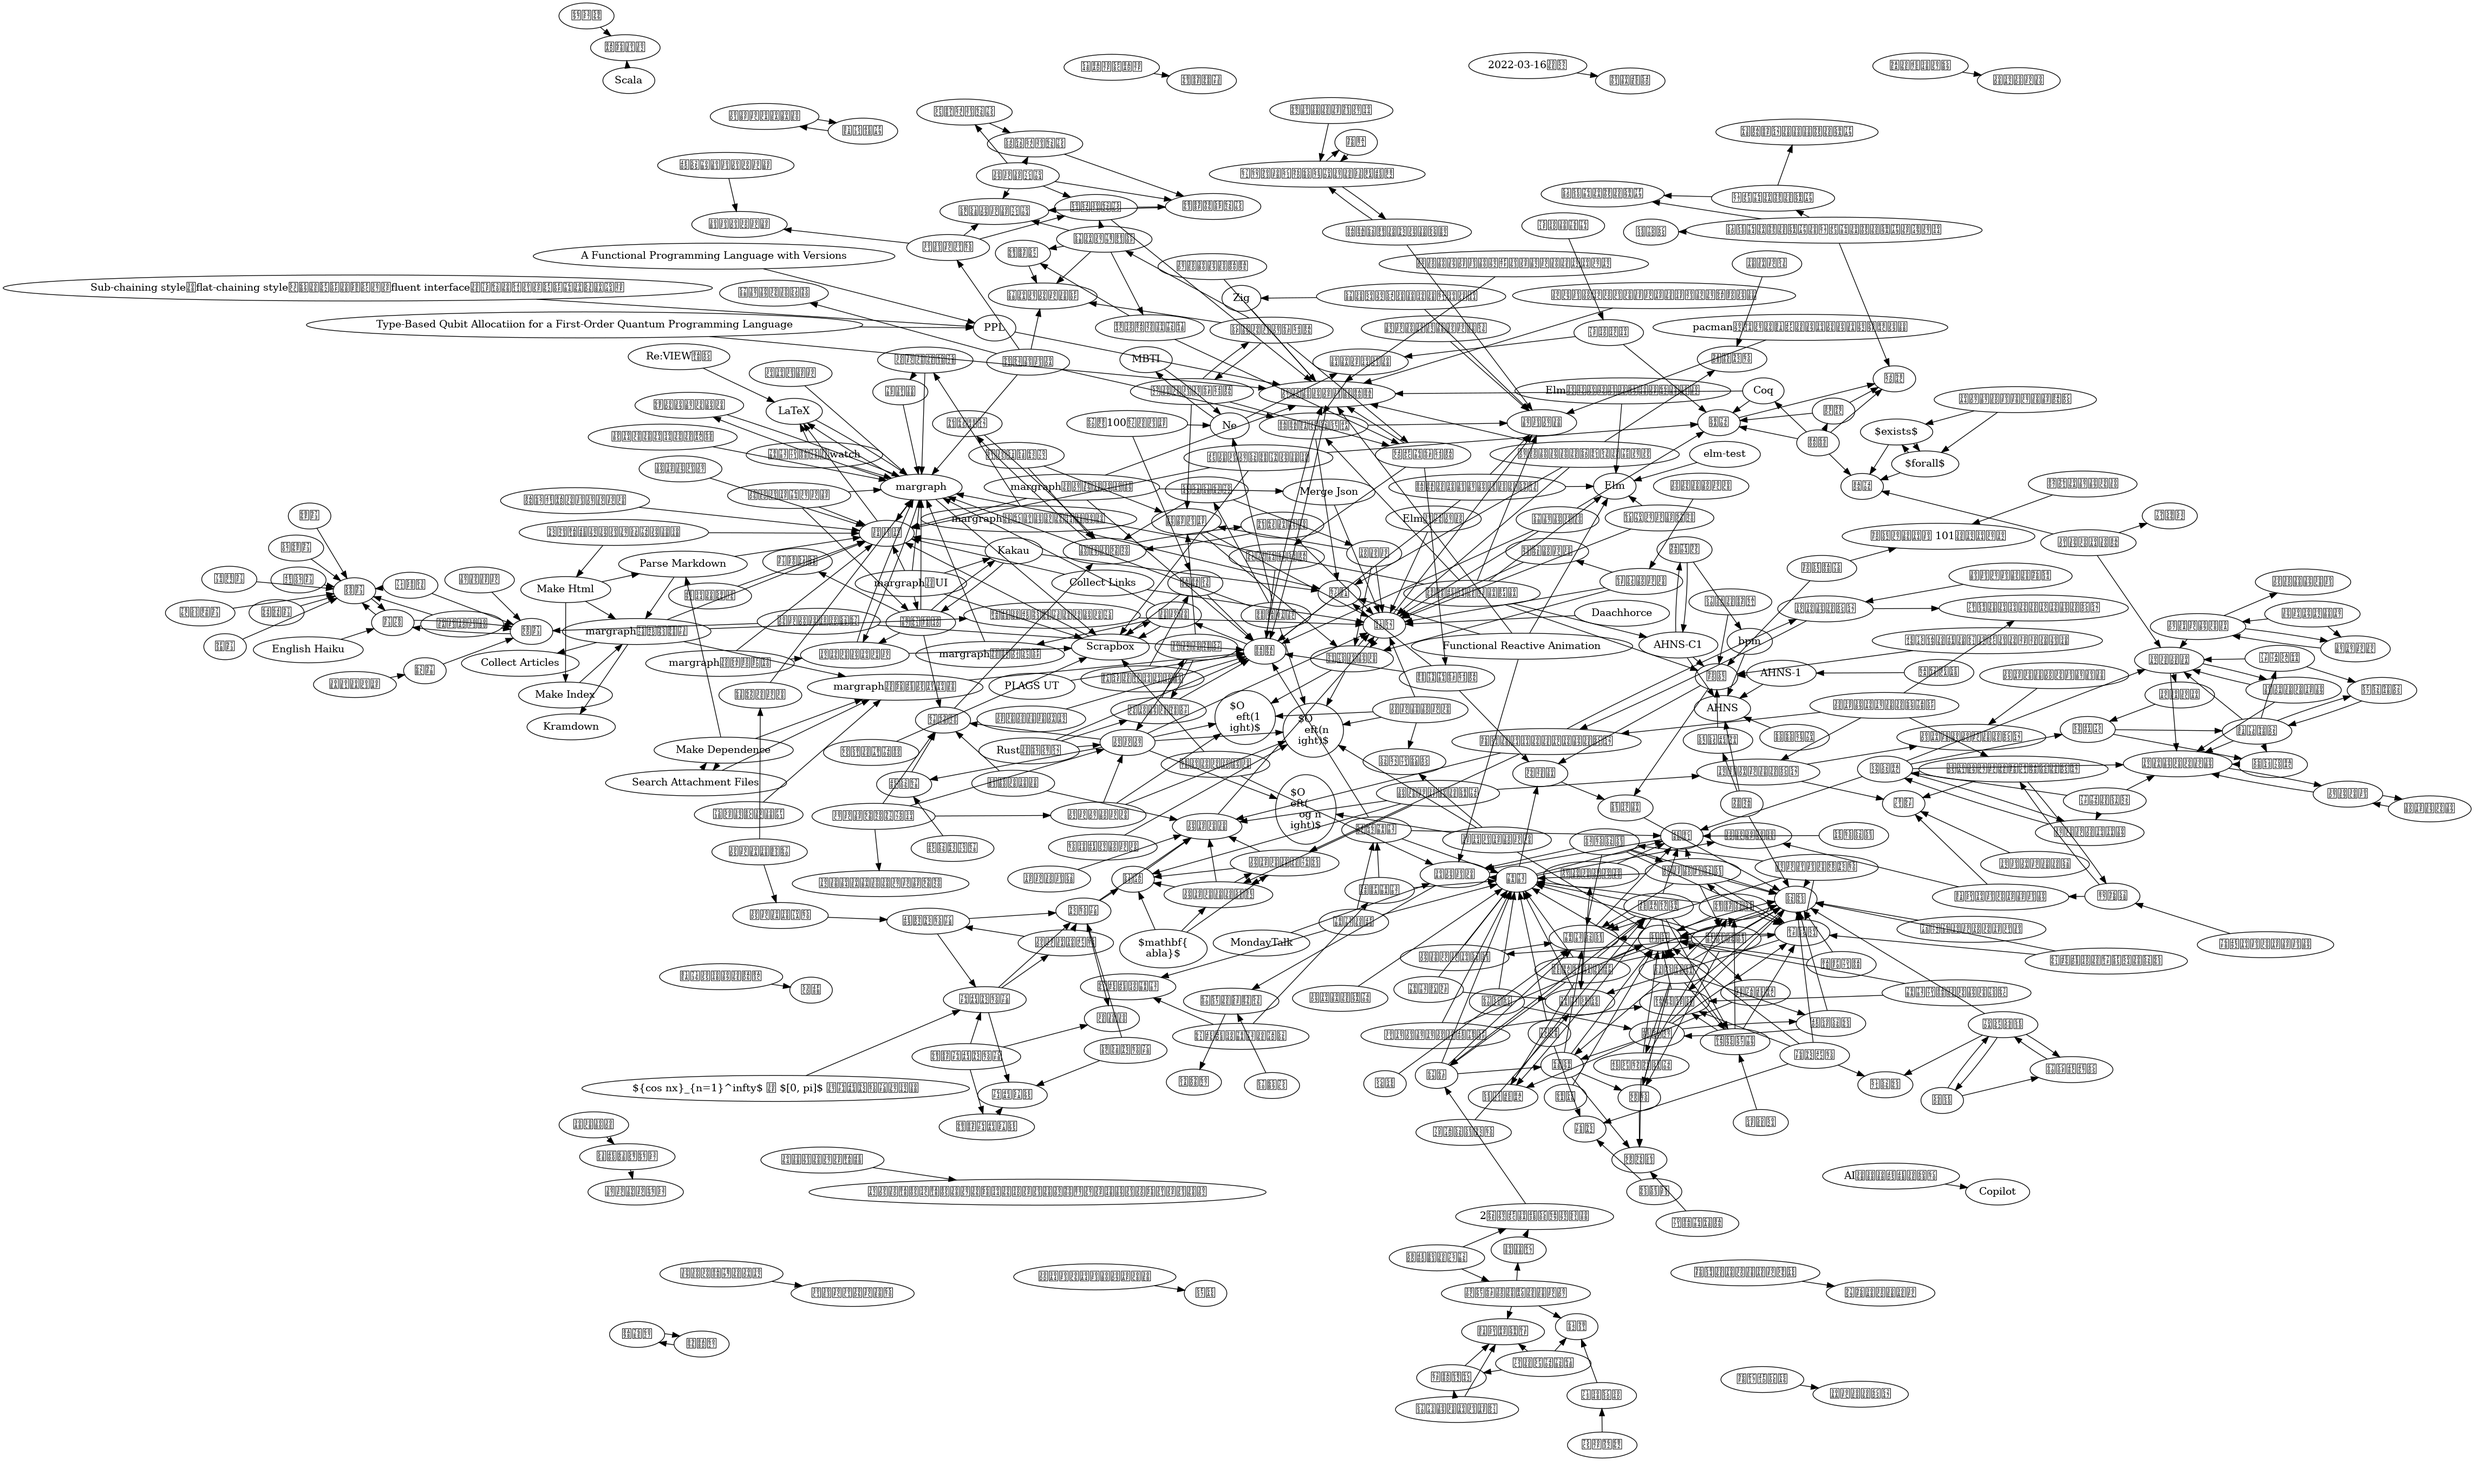
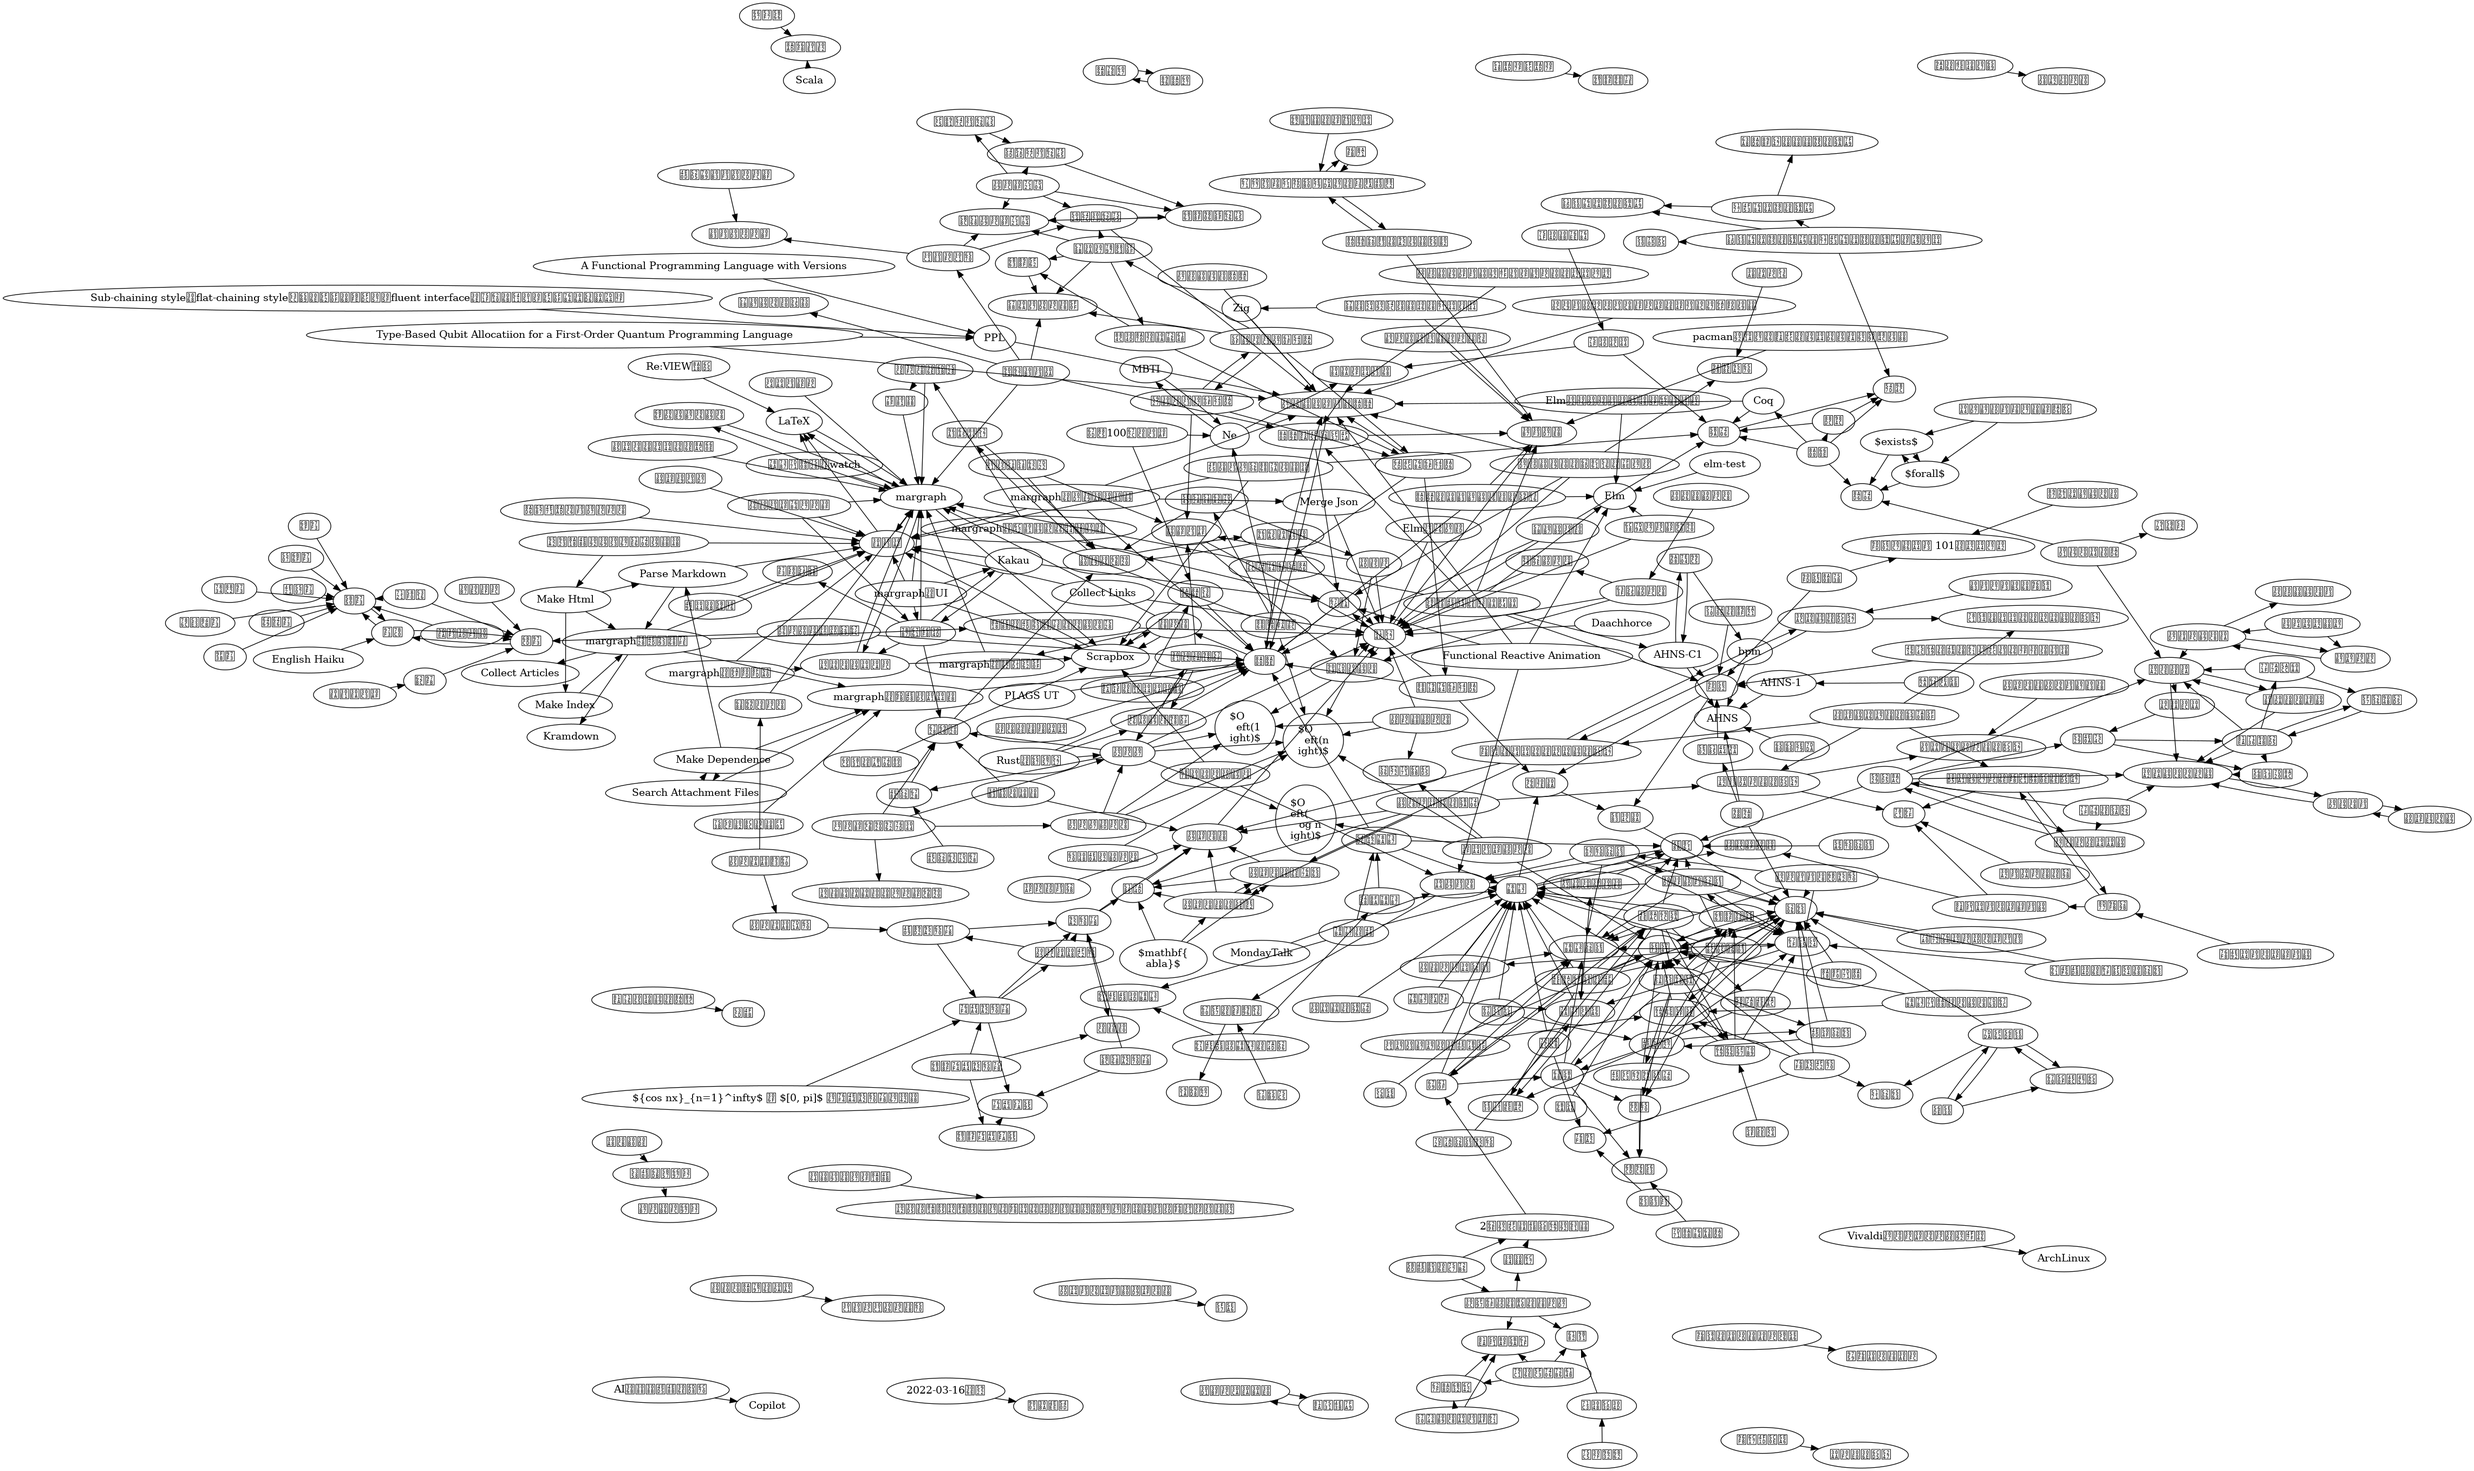
deploy: 14aa3cc881a2d98ef02c87584eadd66ec2aa5c54

diff --git a/other/vivaldi-dark-theme.html b/other/vivaldi-dark-theme.html
@@ -37,7 +37,7 @@
   <li>右往左往したのでメモ</li>
   <li>拡張機能を入れる必要がある
     <ul>
-      <li>公式ヘルプでそっちに案内しているので、多分デフォルトの機能だとついてない
+      <li>公式ヘルプでそっちに案内しているので、標準機能にはついてないのだと思われる
         <ul>
           <li>テーマごとに設定できたら、昼と夜でテーマを使い分けられて面白いのに</li>
           <li>https://help.vivaldi.com/ja/desktop-ja/appearance-customization-ja/browser-themes/#uebupejinodakumodo</li>
@@ -47,9 +47,32 @@
         <ul>
           <li>https://chrome.google.com/webstore/detail/dark-reader/eimadpbcbfnmbkopoojfekhnkhdbieeh?hl=ja</li>
           <li>https://github.com/darkreader/darkreader</li>
-          <li></li>
         </ul>
       </li>
+    </ul>
+  </li>
+  <li>失敗したやり方のメモ
+    <ul>
+      <li>Windowsのときみたく、OS側の設定を探した
+        <ul>
+          <li>``gsettings set org.gnome.desktop.interface gtk-theme “Adwaita-dark”`</li>
+          <li>https://wiki.archlinux.org/title/Dark_mode_switching の、gsettingsのコマンドを使うとFireFoxは切り替わった
+            <ul>
+              <li>vivaldiは上手く行かなかった</li>
+              <li>日本語版の方は情報が古いのか、gsettingsのコマンドは載ってなかった
+                <ul>
+                  <li>https://wiki.archlinux.jp/index.php/%E3%83%80%E3%83%BC%E3%82%AF%E3%83%A2%E3%83%BC%E3%83%89%E3%81%AE%E5%88%87%E3%82%8A%E6%9B%BF%E3%81%88</li>
+                </ul>
+              </li>
+            </ul>
+          </li>
+        </ul>
+      </li>
+    </ul>
+  </li>
+  <li><a href="../other/archlinux.html">ArchLinux</a> + i3 で、の1例として・・・
+    <ul>
+      <li>GUI環境がどうレイヤが重なってるのか把握できてないので、あくまでやってみた系の記事として</li>
     </ul>
   </li>
 </ul>
@@ -100,6 +123,18 @@
 
       
       <div class="link-network">
+        
+          <div class="row flex-nowrap overflow-auto">
+            <div class="col-4">
+              <div class="card h-100">
+                <div class="card-body">
+                  <h5 class="card-title fs-6"><a href="../other/archlinux.html">ArchLinux</a></h5>
+                  <p class="card-text">- Linuxディストリビューションの一つ - Ubuntuと...</p>
+                </div>
+              </div>
+            </div>
+            
+          </div>
         
       </div>
       

diff --git a/other/archlinux.html b/other/archlinux.html
@@ -100,6 +100,18 @@
       
       <div class="link-network">
         
+          <div class="row flex-nowrap overflow-auto">
+            <div class="col-4">
+              <div class="card h-100">
+                <div class="card-body">
+                  <h5 class="card-title fs-6"><a href="../other/vivaldi-dark-theme.html">Vivaldiでダークテーマを使う</a></h5>
+                  <p class="card-text">- 右往左往したのでメモ - 拡張機能を入れる必要がある   ...</p>
+                </div>
+              </div>
+            </div>
+            
+          </div>
+        
       </div>
       
 
